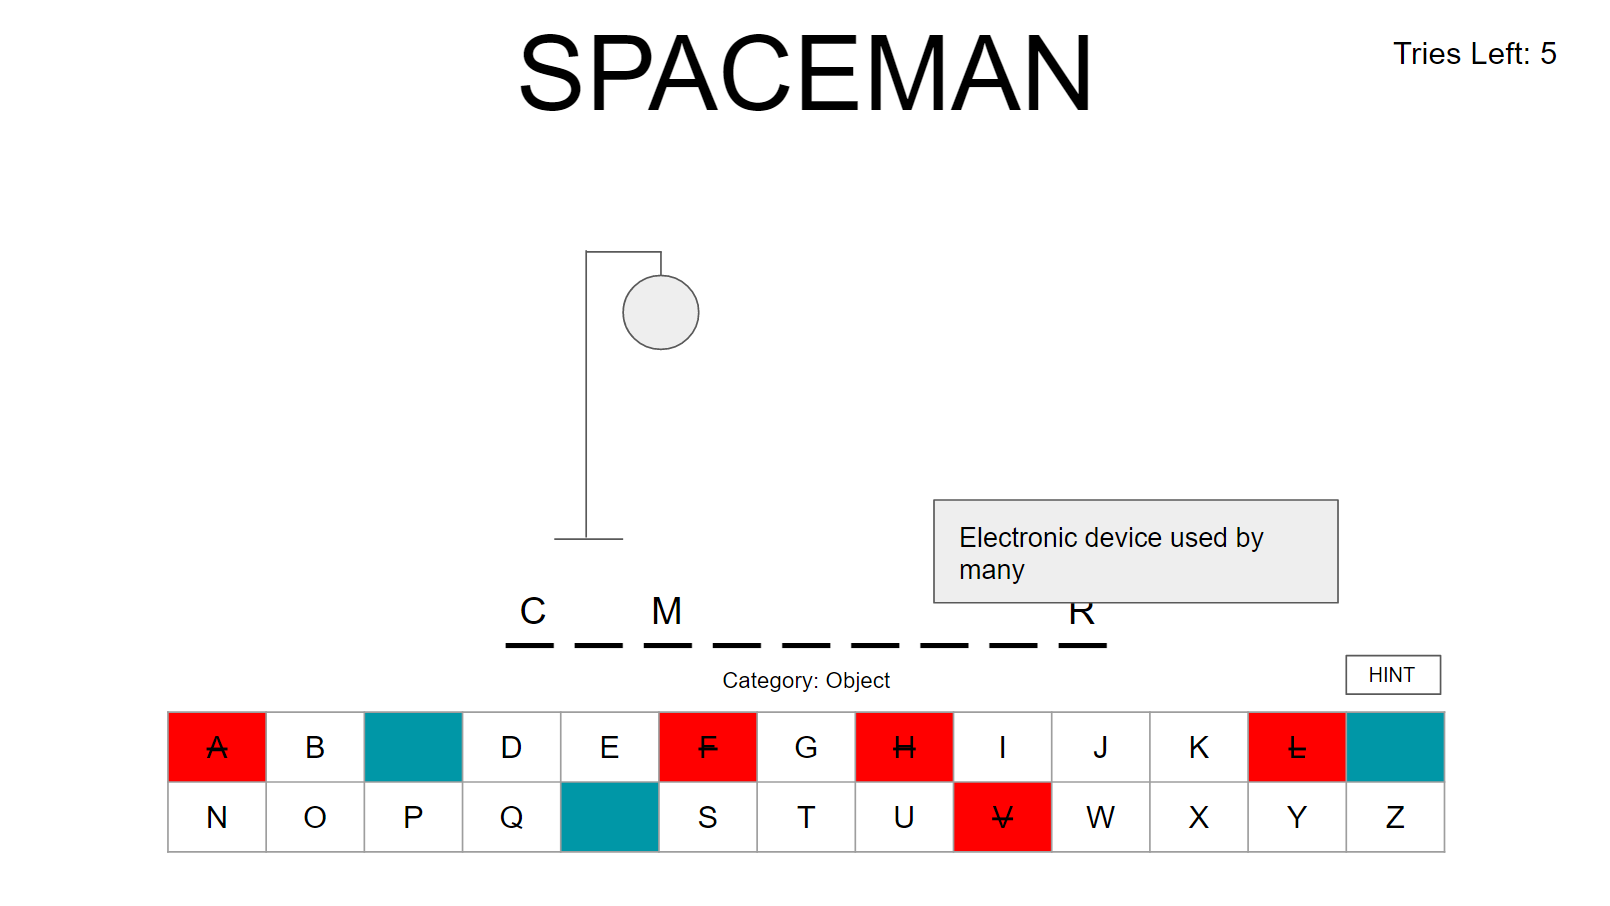
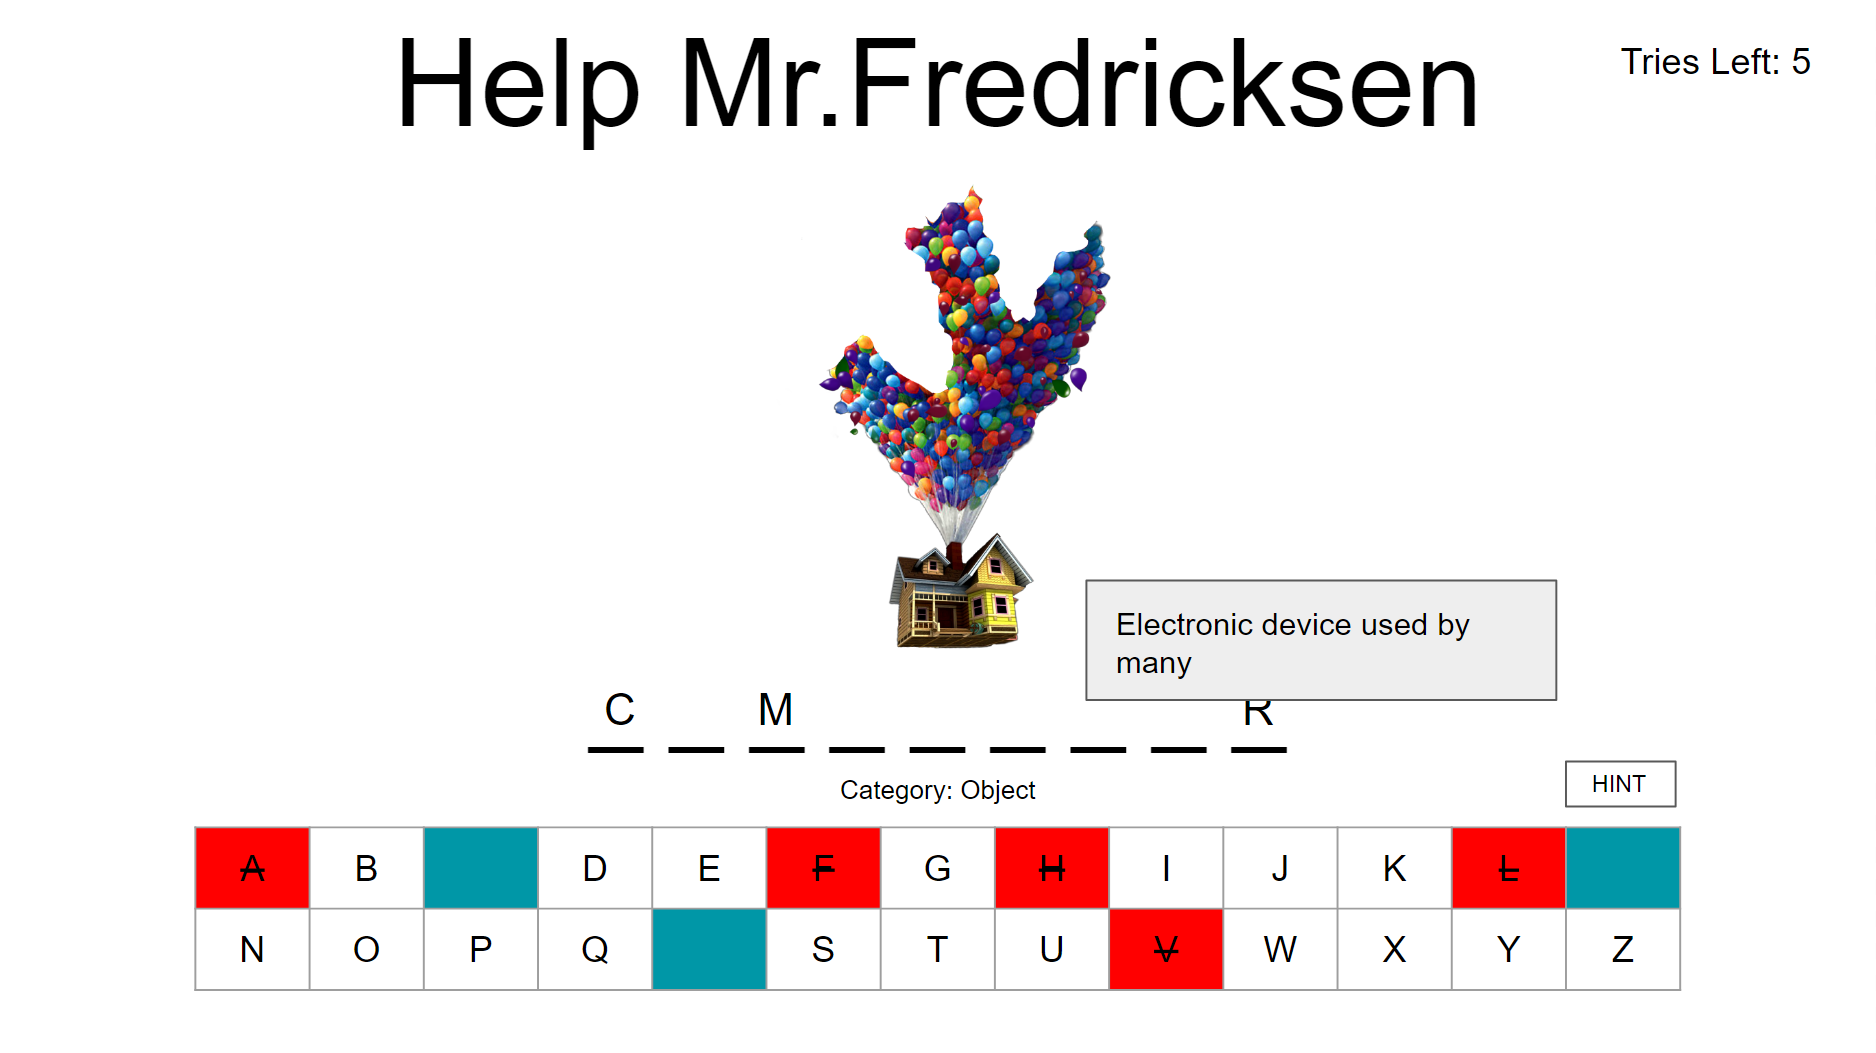
change to UP theme

diff --git a/index.html b/index.html
@@ -5,10 +5,10 @@
     <meta http-equiv="X-UA-Compatible" content="IE=edge">
     <meta name="viewport" content="width=device-width, initial-scale=1.0">
     <link rel="stylesheet" href="style.css">
-    <title>Spaceman Game</title>
+    <title>Helping Mr.Fredricksen</title>
 </head>
 <body>
-    <h1>Spaceman</h1>
+    <h1>Help Mr. Fredricksen</h1>
     <script src="app.js"></script>
 </body>
 </html>

diff --git a/README.md b/README.md
@@ -1,12 +1,12 @@
 ## Project Description
 
-A game where the obect is for one player to guess the letters of an unknown word or phrase before a figure is fully drawn from incorrect answer. Each incorrect answer draws one part of the figure with a total of 10 tries. Guessing the unknown word or phase before all 10 tries is a guaranteed win.
+A game where the object is for one player to guess the letters of an unknown word or phrase before all the ballons are popped from incorrect answers. Each incorrect answer pops some of the balloons that are holding Mr. Fredrickson's house up. There are only 9 parts holding his house up so be sure to guess the word correctly before that or Mr. Frederickson will be homeless. Guessing the unknown word or phase before all 9 tries is a guaranteed win.
 
 ## Wire Frames
 
-![spaceman initial screen](assets/wireframe-main.png)
-![spaceman game with correct and wrong inputs](assets/wireframe-ingame.png)
-![spaceman hint button](assets/wireframe-hint.png)
+![help mr.fredricksen initial screen](assets/wireframe-main.png)
+![help mr.fredricksen with correct and wrong inputs](assets/wireframe-ingame.png)
+![help mr.fredricksen hint button](assets/wireframe-hint.png)
 
 ## User Stories
 
@@ -16,23 +16,23 @@ As a user, I want a browser-based interface so that I can play the game.
 As a user, I want the ability to restart the game.
 As a user, I want the ability to start new game.
 As a user, I want 2 win conditions, Win, Lose.
-As a user, I want to track how many tries I have left.
 As a user, I want the game to display what letters are left to be picked.
-As a user, I want the game to display the body being drawn on.
-As a user, I want tht game to display what category the word is.
+As a user, I want the game to display the balloons being popped after each try.
+As a user, I want the game to display what category the word is.
 
 ### Stretch Goals
 
 #### Bronze
 
+As a user, I want to track how many tries I have left.
 As a user, I want the ability to pick a category of what the word will be.
 As a user, I want a hint option.
-As a user, I want the game to display an module that shows I've won or lost.
+As a user, I want the game to display an module that shows if I've won or lost.
 
 #### Silver
 
 As a user, I want to have achievements.
-As a user, I want the ability to change background.
+As a user, I want the ability to change background of text.
 As a user, I want the ability to change my font.
 
 #### Gold
@@ -41,4 +41,3 @@ As a user, I want multiple difficulty levels: Easy - not timed, Medium - timed, 
 As a user, I want to be able to play on tablet/mobile device.
 As a user, I want the ability to change/pick my avatar.
 As a user, I want a leaderboard that compares my stats with others.
-As a user, I want the ability to change the 'spaceman' being drawn.
